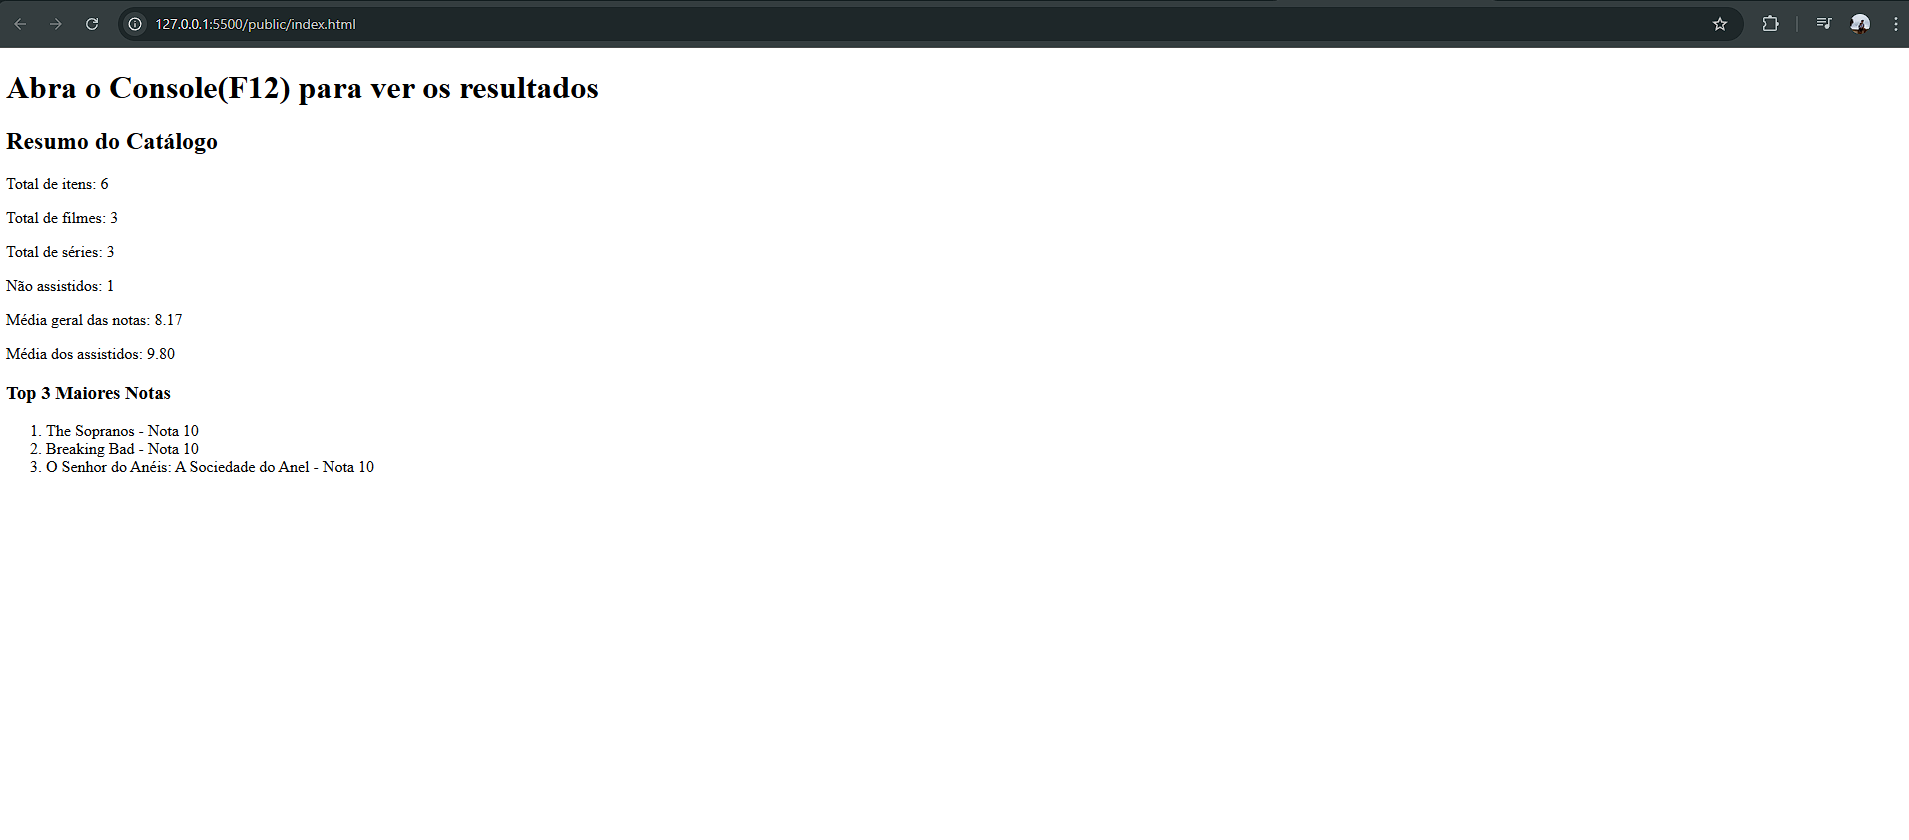
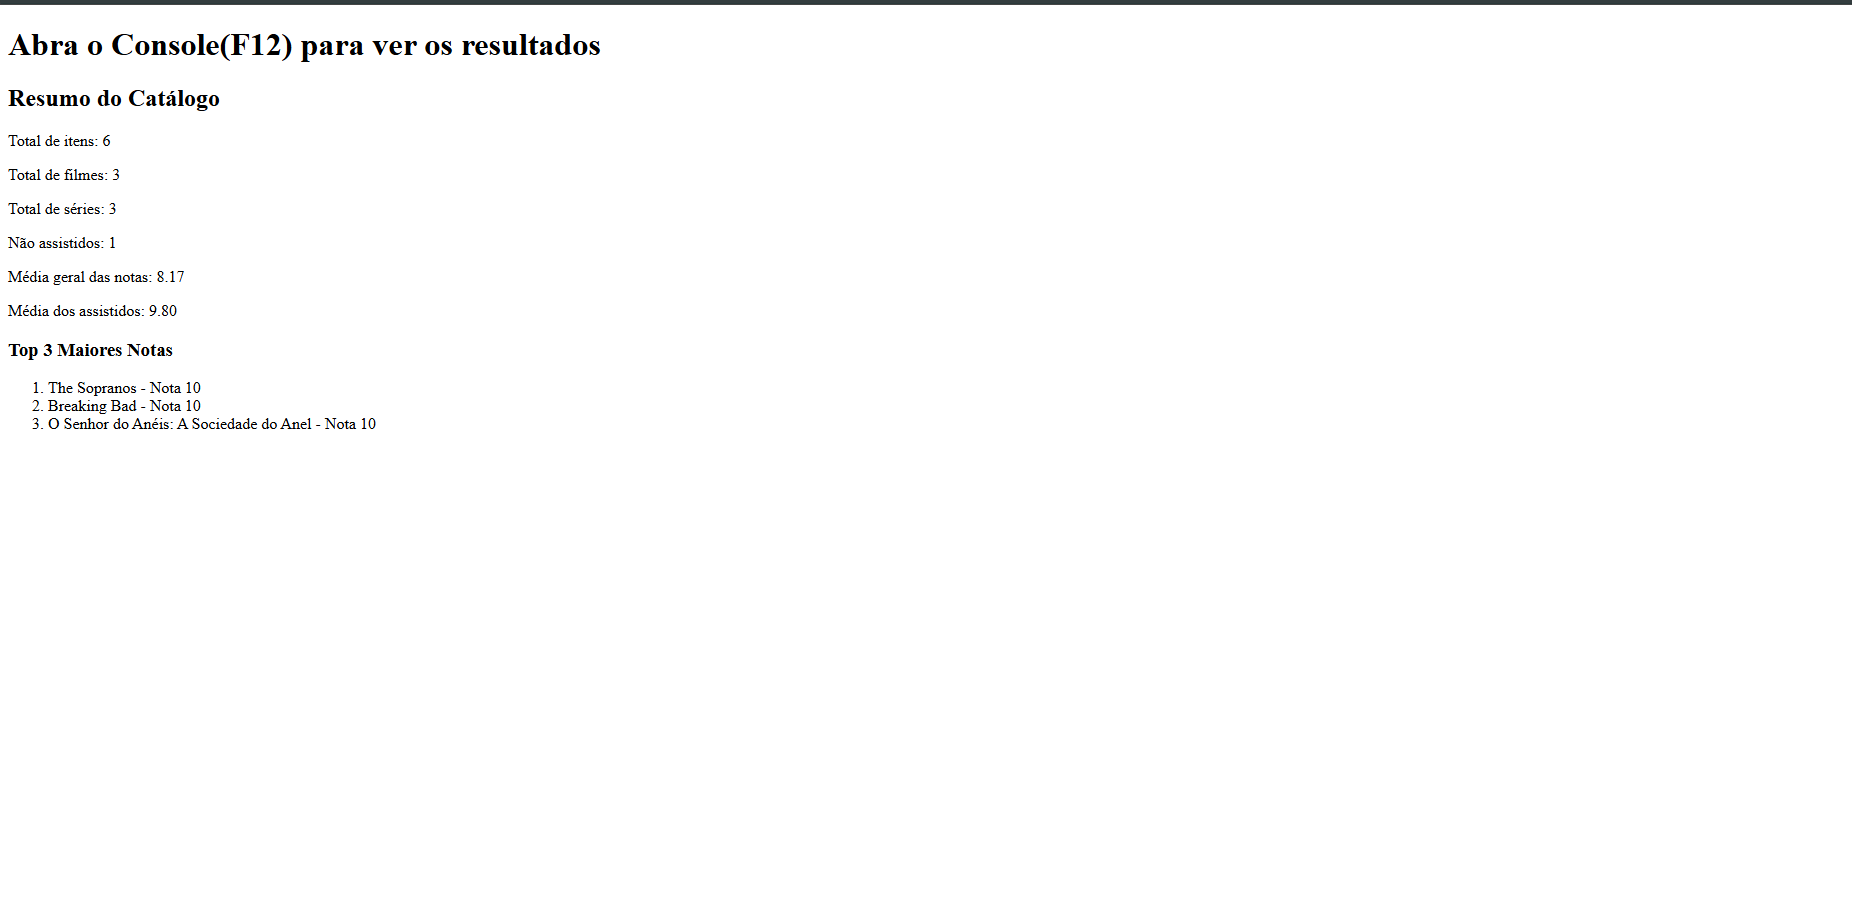
Atividade Prática - Objetos e Arrays (JSON) - matrícula: 926438

Changed region(s): [[0.0, 0.0, 1.0, 0.0619], [0.0, 0.0929, 0.3078, 0.5881]]

diff --git a/README.md b/README.md
@@ -11,13 +11,10 @@ Nesta atividade, você irá fazer exercícios de programação com o objetivo de
 ## Prints do console do navegador
 
 <<  COLOQUE A IMAGEM - LISTAGEM DE TÍTULOS - AQUI >>
-![alt text](<public/imagens/Lista de títulos.png>)
-
+![alt text](public/imagens/Titulos.png)
 <<  COLOQUE A IMAGEM - CÁLCULO DE MÉDIAS - AQUI >>
 ![alt text](public/imagens/Médias.png)
-
 <<  COLOQUE A IMAGEM - RESUMO DE VERIFICAÇÕES (SOME E EVERY) - AQUI >>
 ![alt text](public/imagens/Checagens.png)
-
 <<  COLOQUE A IMAGEM - PÁGINA COM O RESUMO - AQUI >>
 ![alt text](public/imagens/Página.png)
